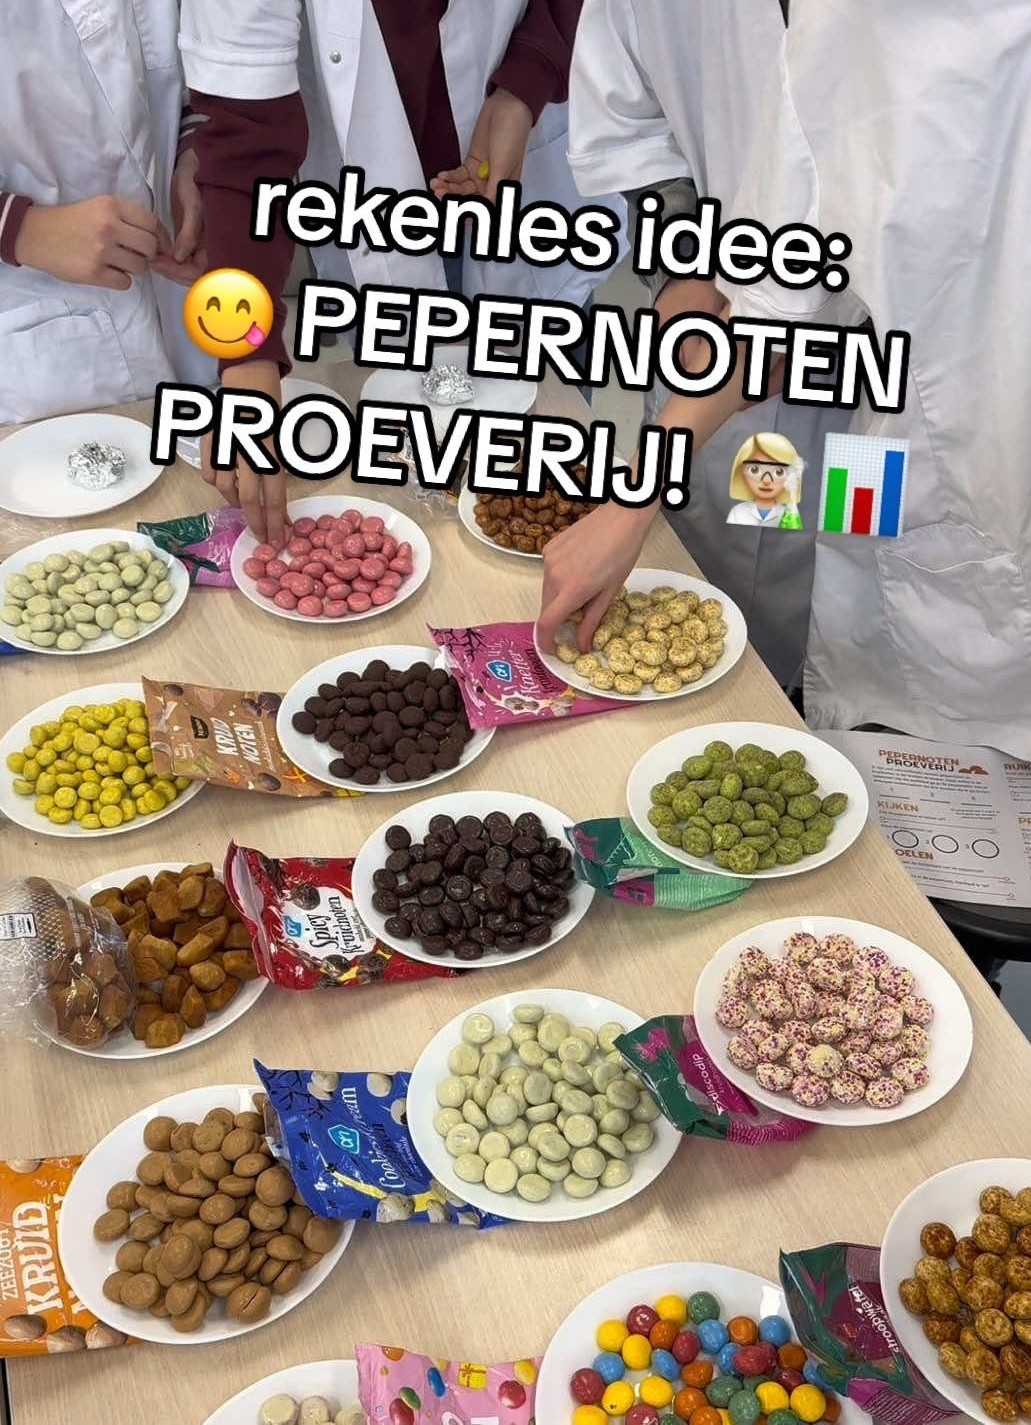
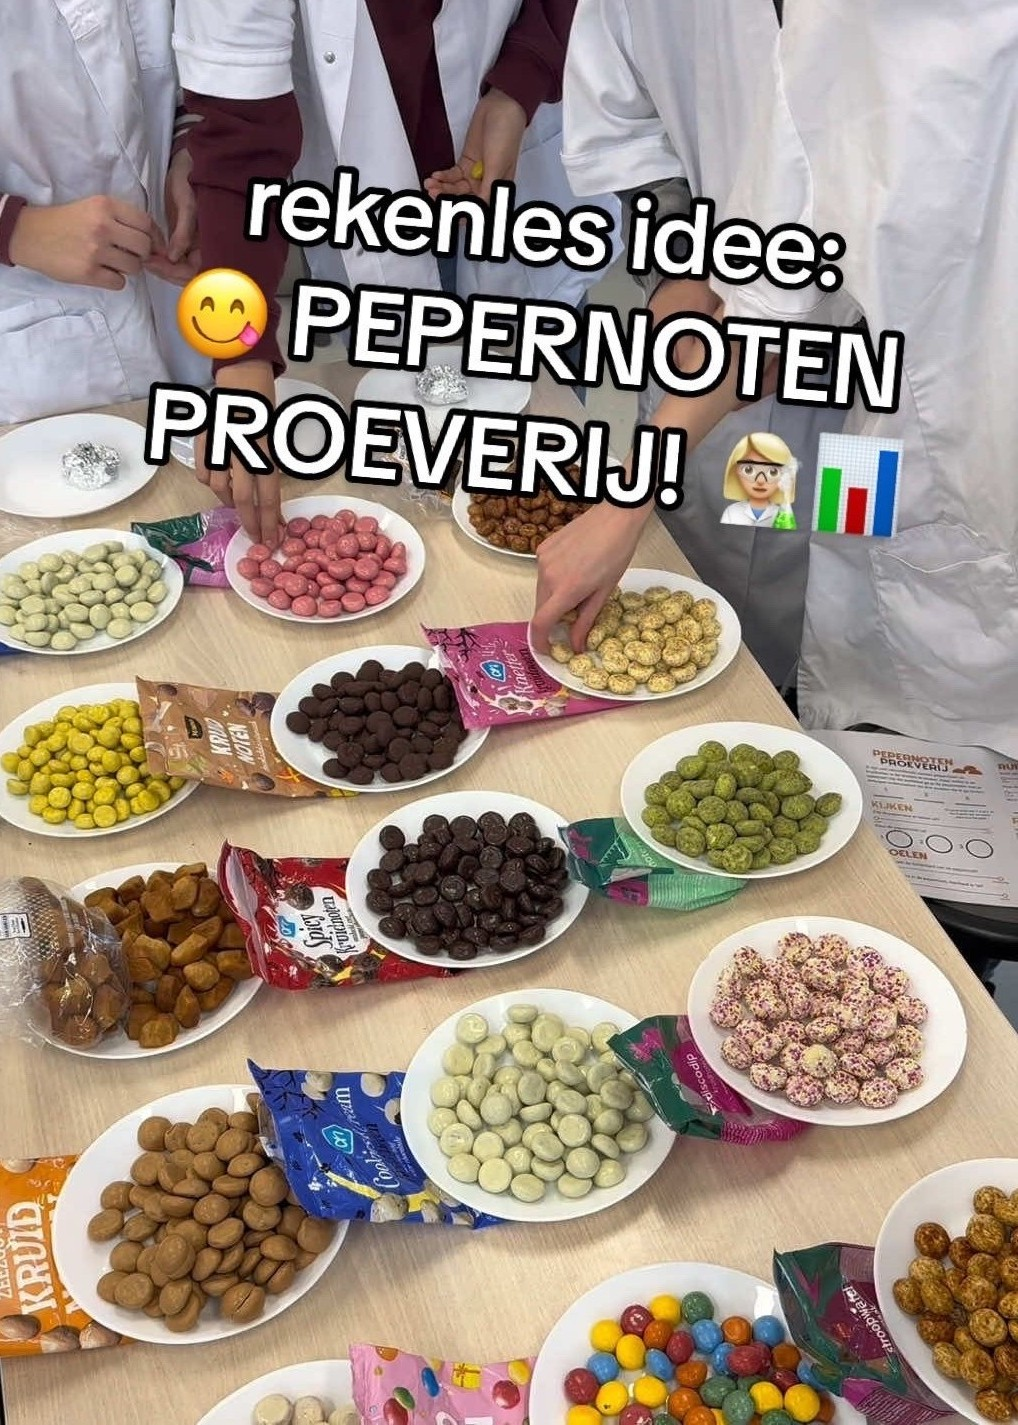
Add custom admin with 5:7 cover crop and automatic GitHub upload
- re-enable the Django admin at /beheer/ with Best of Bart branding
- lesson edit screen: grouped fields, 5:7 cover preview, file count
- new "Overzicht" page: stats per genre, lessons without files, all
  covers with their downloads, and the GitHub upload log
- uploaded cover images are center-cropped to 5:7 (EXIF-rotated first)
- uploaded images and zips are committed and pushed to main in a
  background thread; if GitHub is ahead it rebases first, but never
  over files that were changed on the server (logged instead)
- crop_gallery_images command; cropped the two existing covers that
  were not exactly 5:7

Claude-Session: https://claude.ai/code/session_01UjncLqg6ncWV2baQpwzJTw

diff --git a/templates/admin/gallery_overview.html b/templates/admin/gallery_overview.html
@@ -1,0 +1,65 @@
+{% extends "admin/base_site.html" %}
+
+{% block extrastyle %}{{ block.super }}
+<style>
+    .overview-stats { display: flex; flex-wrap: wrap; gap: 12px; margin-bottom: 24px; }
+    .overview-stat { border: 1px solid var(--hairline-color); border-radius: 6px; padding: 10px 16px; min-width: 110px; }
+    .overview-stat strong { display: block; font-size: 1.6em; }
+    .overview-grid { display: grid; grid-template-columns: repeat(auto-fill, minmax(150px, 1fr)); gap: 16px; margin-bottom: 32px; }
+    .overview-card { border: 1px solid var(--hairline-color); border-radius: 6px; padding: 8px; }
+    .overview-card.hidden-item { opacity: .5; }
+    .overview-card img { width: 100%; aspect-ratio: 5 / 7; object-fit: cover; border-radius: 4px; display: block; }
+    .overview-card h3 { margin: 8px 0 4px; font-size: 1em; }
+    .overview-card ul { margin: 4px 0 0; padding-left: 16px; }
+    .overview-card li { list-style: disc; word-break: break-all; }
+    .overview-warning { color: var(--error-fg); }
+    .overview-log { font-family: monospace; white-space: pre-wrap; }
+</style>
+{% endblock %}
+
+{% block breadcrumbs %}
+<div class="breadcrumbs">
+    <a href="{% url 'admin:index' %}">Home</a>
+    &rsaquo; <a href="{% url 'admin:gallery_galleryitem_changelist' %}">{{ opts.verbose_name_plural|capfirst }}</a>
+    &rsaquo; Overzicht
+</div>
+{% endblock %}
+
+{% block content %}
+<div class="overview-stats">
+    <div class="overview-stat"><strong>{{ items|length }}</strong>lessen</div>
+    {% for genre, count in genre_counts %}
+        <div class="overview-stat"><strong>{{ count }}</strong>{{ genre }}</div>
+    {% endfor %}
+    <div class="overview-stat"><strong>{{ hidden_count }}</strong>verborgen</div>
+</div>
+
+{% if without_files %}
+    <p class="overview-warning">Lessen zonder bestanden:
+        {% for item in without_files %}<a href="{% url 'admin:gallery_galleryitem_change' item.pk %}">{{ item.title }}</a>{% if not forloop.last %}, {% endif %}{% endfor %}
+    </p>
+{% endif %}
+
+<div class="overview-grid">
+    {% for item in items %}
+        <div class="overview-card{% if not item.is_visible %} hidden-item{% endif %}">
+            <a href="{% url 'admin:gallery_galleryitem_change' item.pk %}">
+                {% if item.image %}<img src="{{ item.image.url }}" alt="{{ item.title }}">{% endif %}
+                <h3>{{ item.title }}</h3>
+            </a>
+            <div>{{ item.get_genre_display }}{% if not item.is_visible %} · verborgen{% endif %}</div>
+            <ul>
+                {% for f in item.files.all %}<li><a href="{{ f.url }}">{{ f.url|cut:"/media/main/files/" }}</a></li>{% endfor %}
+            </ul>
+        </div>
+    {% endfor %}
+</div>
+
+<h2>GitHub-uploads</h2>
+{% if sync_log %}
+    <div class="overview-log">{% for line in sync_log %}{{ line }}
+{% endfor %}</div>
+{% else %}
+    <p>Nog niets naar GitHub gepusht.</p>
+{% endif %}
+{% endblock %}

diff --git a/templates/admin/gallery/galleryitem/change_list.html b/templates/admin/gallery/galleryitem/change_list.html
@@ -1,0 +1,6 @@
+{% extends "admin/change_list.html" %}
+
+{% block object-tools-items %}
+    <li><a href="{% url 'admin:gallery_overview' %}">Overzicht</a></li>
+    {{ block.super }}
+{% endblock %}

diff --git a/gallery/admin.py b/gallery/admin.py
@@ -1,7 +1,15 @@
 from django.contrib import admin
+from django.db.models import Count
+from django.template.response import TemplateResponse
+from django.urls import path
 from django.utils.html import format_html
 
+from . import git_sync
 from .models import GalleryFile, GalleryItem
+
+admin.site.site_header = "Best of Bart beheer"
+admin.site.site_title = "Best of Bart"
+admin.site.index_title = "Lessen beheren"
 
 
 class GalleryFileInline(admin.TabularInline):
@@ -11,15 +19,65 @@ class GalleryFileInline(admin.TabularInline):
 
 @admin.register(GalleryItem)
 class GalleryItemAdmin(admin.ModelAdmin):
-    list_display = ("thumbnail", "title", "genre", "order", "is_visible")
+    list_display = ("thumbnail", "title", "genre", "file_count", "order", "is_visible")
     list_display_links = ("thumbnail", "title")
     list_editable = ("order", "is_visible")
     list_filter = ("genre", "is_visible")
+    list_per_page = 50
     search_fields = ("title", "description")
+    readonly_fields = ("preview",)
+    fieldsets = (
+        (None, {"fields": ("title", "genre", "description", "tiktok_url")}),
+        ("Voorkant", {
+            "fields": ("image", "preview"),
+            "description": "De afbeelding wordt bij het uploaden automatisch bijgesneden tot 5:7 (staand).",
+        }),
+        ("Weergave", {"fields": ("order", "is_visible")}),
+    )
     inlines = [GalleryFileInline]
+
+    def get_queryset(self, request):
+        return super().get_queryset(request).annotate(num_files=Count("files"))
 
     @admin.display(description="Image")
     def thumbnail(self, obj):
         if obj.image:
             return format_html('<img src="{}" style="height:60px;border-radius:4px">', obj.image.url)
         return "—"
+
+    @admin.display(description="Voorbeeld")
+    def preview(self, obj):
+        if obj.image:
+            return format_html(
+                '<img src="{}" style="width:150px;aspect-ratio:5/7;object-fit:cover;'
+                'border:2px solid #333;border-radius:4px">',
+                obj.image.url,
+            )
+        return "—"
+
+    @admin.display(description="Bestanden", ordering="num_files")
+    def file_count(self, obj):
+        return obj.num_files
+
+    def get_urls(self):
+        return [
+            path("overzicht/", self.admin_site.admin_view(self.overview_view), name="gallery_overview"),
+        ] + super().get_urls()
+
+    def overview_view(self, request):
+        items = GalleryItem.objects.prefetch_related("files")
+        genres = dict(GalleryItem.GENRE_CHOICES)
+        context = {
+            **self.admin_site.each_context(request),
+            "title": "Overzicht lessen",
+            "opts": self.model._meta,
+            "items": items,
+            "genre_counts": [
+                (genres.get(row["genre"], row["genre"]), row["n"])
+                for row in GalleryItem.objects.values("genre").annotate(n=Count("id")).order_by("genre")
+            ],
+            "hidden_count": items.filter(is_visible=False).count(),
+            "without_files": [item for item in items if not item.files.all()],
+            "sync_log": git_sync.recent_log(),
+        }
+        return TemplateResponse(request, "admin/gallery_overview.html", context)

diff --git a/gallery/git_sync.py b/gallery/git_sync.py
@@ -1,0 +1,86 @@
+"""Commit uploaded files and push them to GitHub in the background."""
+import logging
+import subprocess
+import threading
+from datetime import datetime
+from pathlib import Path
+
+from django.conf import settings
+from django.db import transaction
+
+logger = logging.getLogger(__name__)
+_lock = threading.Lock()
+
+
+class GitSyncError(Exception):
+    pass
+
+
+def log_file():
+    return Path(settings.BASE_DIR) / "git_sync.log"
+
+
+def recent_log(lines=20):
+    try:
+        return log_file().read_text(encoding="utf-8").splitlines()[-lines:][::-1]
+    except FileNotFoundError:
+        return []
+
+
+def push_files(paths, message):
+    """Push the given files to GitHub once the current database transaction commits."""
+    if not getattr(settings, "GIT_AUTO_PUSH", False):
+        return
+    base = Path(settings.BASE_DIR).resolve()
+    relative = [str(Path(p).resolve().relative_to(base)) for p in paths]
+    transaction.on_commit(
+        lambda: threading.Thread(target=_push, args=(relative, message), daemon=True).start()
+    )
+
+
+def _write_log(line):
+    stamp = datetime.now().strftime("%Y-%m-%d %H:%M")
+    with log_file().open("a", encoding="utf-8") as f:
+        f.write(f"{stamp}  {line}\n")
+
+
+def _git(*args, check=True):
+    result = subprocess.run(
+        ["git", *args], cwd=settings.BASE_DIR, capture_output=True, text=True, timeout=300
+    )
+    if check and result.returncode != 0:
+        raise GitSyncError(f"git {args[0]}: {(result.stderr or result.stdout).strip()}")
+    return result
+
+
+def _push(paths, message):
+    remote = settings.GIT_AUTO_PUSH_REMOTE
+    branch = settings.GIT_AUTO_PUSH_BRANCH
+    name, email = settings.GIT_AUTO_PUSH_AUTHOR
+    with _lock:
+        try:
+            _git("add", "--", *paths)
+            if _git("diff", "--cached", "--quiet", "--", *paths, check=False).returncode == 0:
+                _write_log(f"Al op GitHub: {message}")
+                return
+            _git("-c", f"user.name={name}", "-c", f"user.email={email}",
+                 "commit", "--only", "-m", message, "--", *paths)
+
+            if _git("push", remote, f"HEAD:{branch}", check=False).returncode != 0:
+                # GitHub has newer commits: replay ours on top, unless that
+                # would overwrite files that were changed here on the server.
+                _git("fetch", remote, branch)
+                incoming = set(_git("diff", "--name-only", "HEAD...FETCH_HEAD").stdout.split())
+                dirty = {line[3:] for line in _git("status", "--porcelain").stdout.splitlines()}
+                if incoming & dirty:
+                    raise GitSyncError(
+                        "GitHub heeft nieuwere versies van " + ", ".join(sorted(incoming & dirty))
+                        + "; commit staat klaar op de server, push handmatig."
+                    )
+                _git("rebase", "--autostash", "FETCH_HEAD")
+                _git("push", remote, f"HEAD:{branch}")
+
+            _write_log(f"Gepusht: {message}")
+        except Exception as e:
+            logger.exception("Pushing %s to GitHub failed", paths)
+            _write_log(f"FOUT bij '{message}': {e}")

diff --git a/gallery/models.py b/gallery/models.py
@@ -1,7 +1,11 @@
 import json
+from pathlib import Path
 
 from django.core.exceptions import ValidationError
 from django.db import models
+
+from .git_sync import push_files
+from .images import crop_to_ratio
 
 
 class GalleryItem(models.Model):
@@ -29,6 +33,16 @@ class GalleryItem(models.Model):
     def __str__(self):
         return self.title
 
+    def save(self, *args, **kwargs):
+        new_upload = bool(self.image) and not self.image._committed
+        if new_upload:
+            cropped = crop_to_ratio(self.image)
+            if cropped:
+                self.image.save(Path(self.image.name).name, cropped, save=False)
+        super().save(*args, **kwargs)
+        if new_upload:
+            push_files([self.image.path], f"Afbeelding toegevoegd: {self.title}")
+
     @property
     def files_json(self):
         return json.dumps([{"url": f.url} for f in self.files.all()])
@@ -44,6 +58,12 @@ class GalleryFile(models.Model):
     def clean(self):
         if bool(self.file) == bool(self.external_url):
             raise ValidationError("Upload a file or enter a link (not both).")
+
+    def save(self, *args, **kwargs):
+        new_upload = bool(self.file) and not self.file._committed
+        super().save(*args, **kwargs)
+        if new_upload:
+            push_files([self.file.path], f"Bestand toegevoegd: {self.file.name} ({self.item.title})")
 
     @property
     def url(self):

diff --git a/gallery/images.py b/gallery/images.py
@@ -1,0 +1,39 @@
+from io import BytesIO
+
+from django.core.files.base import ContentFile
+from PIL import Image, ImageOps
+
+COVER_RATIO = (5, 7)  # width : height, same shape as the gallery tiles
+
+
+def crop_to_ratio(file, ratio=COVER_RATIO):
+    """Center-crop an image to the given width:height ratio.
+
+    Returns a ContentFile with the cropped image, or None if the image
+    already has the right shape.
+    """
+    file.seek(0)
+    img = Image.open(file)
+    fmt = "JPEG" if img.format in (None, "MPO") else img.format
+    # Phone photos are often stored sideways with an EXIF rotation flag.
+    img = ImageOps.exif_transpose(img)
+
+    width, height = img.size
+    target = ratio[0] / ratio[1]
+    if abs(width / height - target) < 0.005:
+        return None
+
+    if width / height > target:
+        new_width = round(height * target)
+        left = (width - new_width) // 2
+        img = img.crop((left, 0, left + new_width, height))
+    else:
+        new_height = round(width / target)
+        top = (height - new_height) // 2
+        img = img.crop((0, top, width, top + new_height))
+
+    if fmt == "JPEG" and img.mode not in ("RGB", "L"):
+        img = img.convert("RGB")
+    buffer = BytesIO()
+    img.save(buffer, format=fmt, **({"quality": 90} if fmt == "JPEG" else {}))
+    return ContentFile(buffer.getvalue())

diff --git a/gallery/management/commands/crop_gallery_images.py b/gallery/management/commands/crop_gallery_images.py
@@ -1,0 +1,18 @@
+from django.core.management.base import BaseCommand
+
+from gallery.images import crop_to_ratio
+from gallery.models import GalleryItem
+
+
+class Command(BaseCommand):
+    help = "Crop existing gallery cover images to 5:7, in place."
+
+    def handle(self, *args, **options):
+        for item in GalleryItem.objects.exclude(image=""):
+            with item.image.open("rb") as f:
+                cropped = crop_to_ratio(f)
+            if not cropped:
+                continue
+            with item.image.storage.open(item.image.name, "wb") as out:
+                out.write(cropped.read())
+            self.stdout.write(self.style.SUCCESS(f"Cropped: {item.title}"))

diff --git a/best_of_bart/settings.py b/best_of_bart/settings.py
@@ -143,3 +143,10 @@ DEFAULT_AUTO_FIELD = 'django.db.models.BigAutoField'
 
 MEDIA_URL = '/media/'
 MEDIA_ROOT = os.path.join(BASE_DIR, 'media')
+
+# Uploaded images and zips are committed and pushed to GitHub automatically.
+# Set GIT_AUTO_PUSH=0 in the environment to turn this off (e.g. while testing).
+GIT_AUTO_PUSH = os.environ.get("GIT_AUTO_PUSH", "1") == "1"
+GIT_AUTO_PUSH_REMOTE = "origin"
+GIT_AUTO_PUSH_BRANCH = "main"
+GIT_AUTO_PUSH_AUTHOR = ("Best of Bart beheer", "info@bestofbart.nl")

diff --git a/best_of_bart/urls.py b/best_of_bart/urls.py
@@ -5,6 +5,7 @@ from django.urls import path
 from . import views
 
 urlpatterns = [
+    path('beheer/', admin.site.urls),
     path('items/', views.items_view, name='items'),
     path('', views.home_view, name='home'),
     path('contact/', views.contact_view, name='contact'),
